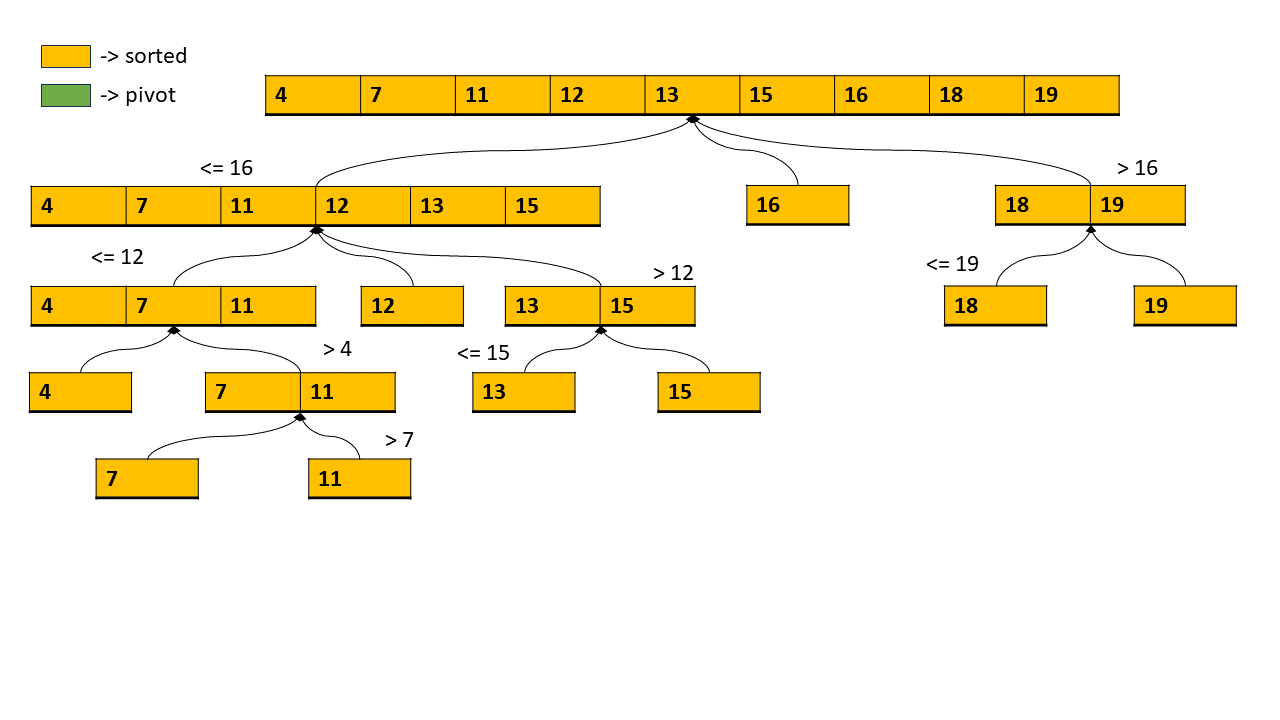
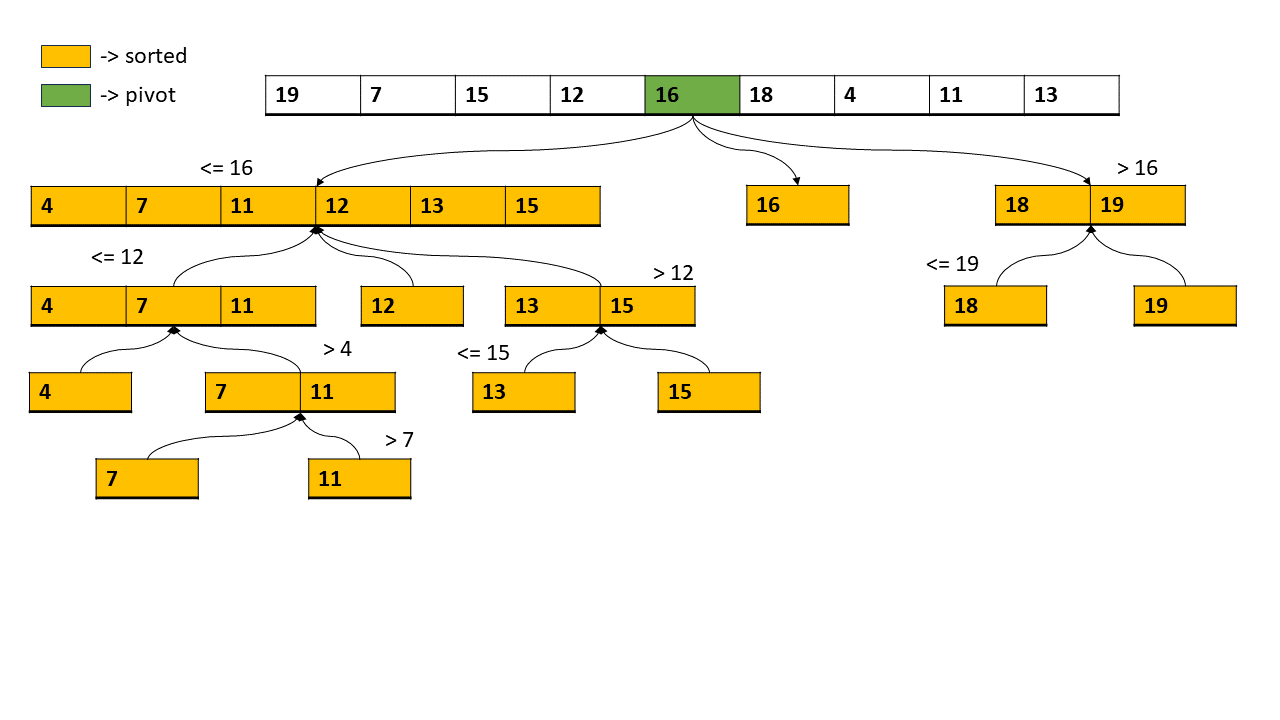
more modifications

Changed region(s): [[0.1875, 0.0917, 0.875, 0.1833]]

diff --git a/sort/middlepivot/script.js b/sort/middlepivot/script.js
@@ -1,22 +1,33 @@
 var pic;
 var picid = 1;
 function press(sw) {
-    if (picid == -1 && sw != 2) {alert("This arrays is already sorted.\nPlease press reset button!");}
-    else{
         if (sw == 0) {
-            picid = (picid == 9) ? 9 : picid +=1; 
-            pic = "pics/".concat(picid.toString(),".png");}
+            myarray = [10,11,13,16,20];
+            if (picid <= 4) {picid += 1;}
+            else if (myarray.includes(picid)) {alert("Problem solved! Try reset or back!")}
+            else if (picid == 5) {alert("Sub-problems small enough to be solved! Use the solve button!")}
+            else {alert("All sub-problems solved, try conquer instead!")}}
          else  if (sw == 1) {
-            picid = (picid == 1) ? 1 : picid -=1; 
-            pic = "pics/".concat(picid.toString(),".png");}
+            if (picid <= 4) {alert("Problem unsolved! Try divide instead!");}
+            else if (picid == 5) {alert("Sub-problem small enough to be solved! Use the solve button before conquer operations!")}
+            else if (myarray.includes(picid)) {alert("Problem solved! Try reset or back!")}
+            else {picid += 1;}}
         else  if (sw == 2) {
-            picid = 1;
-            pic = "pics/".concat(picid.toString(),".png");}
-        else {
-            if (picid > 5) {picid = 5;}
-            pic = "pics/".concat(picid.toString(),"sorted",".png");
-            picid = -1;}}
-  document.getElementById('myImage').src = pic;
+            if (picid <= 2) {picid += 10;}
+            else if (picid == 3) {picid += 11;}
+            else if (picid == 4) {picid += 13;}
+            else if (picid == 5) {picid += 1;}
+            else if (myarray.includes(picid)) {alert("Problem solved! Try reset or back!")}
+            else {alert("All sub-problems solved, try conquer instead!")}}
+        else  if (sw == 3) {
+            if (picid == 12 || picid == 11) {picid -= 10;}
+            else if (picid == 1) {picid = 1;}
+            else if (picid == 14) {picid -= 11;}
+            else if (picid == 17) {picid -=13;}
+            else {picid -= 1;}}
+        else {picid = 1;}
+        pic = "pics/".concat(picid.toString(),".png");
+        document.getElementById('myImage').src = pic;
 };
 
 function quiz() {

diff --git a/bsearch/script.js b/bsearch/script.js
@@ -2,17 +2,16 @@ var pic;
 var picid = 1;
 function press(sw) {
         if (sw == 0) {
-            if (picid <= 3) {picid += 1;}
-            else if (4 <= picid < 6) {alert("Answer is already found! Now return the answer to the original problem(Try conquer instead!)");}
-            else if (picid == 8) {alert("When the answer to the current array is found, try to return it to the original problem using conquer!");}
-            else {
+            if (picid <= 2) {picid += 1;}
+            else if (picid == 3) {alert("Sub-problems small enough to be solved! Use the solve button!")}
+            else if (4 == picid || picid == 5 || picid == 8) {alert("When the answer to the current array is found, try to return it to the original problem using conquer!");}
+            else{
                 alert("Problem solved! Try reset or back instead!");}}
         else  if (sw == 1) {
-            if (picid <= 3) {
-                alert("Problem unsolved! Try divide instead!");}
+            if (picid <= 2) {alert("Problem unsolved! Try divide instead!");}
+            else if (picid == 3) {alert("Sub-problem small enough to be solved! Use the solve button before conquer operations!")}
             else if (4 == picid || picid == 5 || picid == 8) {picid += 1;}
-            else {
-                alert("Problem solved! Try reset or back instead!");}}
+            else {alert("Problem solved! Try reset or back instead!");}}
         else  if (sw == 2) {
             if (picid == 1) {picid == 1;}
             else if (picid == 7 || picid == 8) {picid -= 6;}
@@ -21,7 +20,7 @@ function press(sw) {
         else {
             if (picid < 3) {picid += 6;}
             else if (picid == 3) {picid += 1;}
-            else if (picid == 6 || picid == 7) {alert("Problem solved! Try reset or back instead!");}
+            else if (picid == 6 || picid == 7 || picid == 9) {alert("Problem solved! Try reset or back instead!");}
             else {alert("When the answer to the current array is found, try to return it to the original problem using conquer!");}}
         pic = "pics/".concat(picid.toString(),".png");
         document.getElementById('myImage').src = pic;}

diff --git a/sort/lastpivot/script.js b/sort/lastpivot/script.js
@@ -1,22 +1,31 @@
 var pic;
 var picid = 1;
 function press(sw) {
-    if (picid == -1 && sw != 2) {alert("This arrays is already sorted.\nPlease press reset button!");}
-    else{
         if (sw == 0) {
-            picid = (picid == 7) ? 7 : picid +=1; 
-            pic = "pics/".concat(picid.toString(),".png");}
+            myarray = [8,9,11,14];
+            if (picid <= 3) {picid += 1;}
+            else if (myarray.includes(picid)) {alert("Problem solved! Try reset or back!")}
+            else if (picid == 4) {alert("Sub-problems small enough to be solved! Use the solve button!")}
+            else {alert("All sub-problems solved, try conquer instead!")}}
          else  if (sw == 1) {
-            picid = (picid == 1) ? 1 : picid -=1; 
-            pic = "pics/".concat(picid.toString(),".png");}
+            if (picid <= 3) {alert("Problem unsolved! Try divide instead!");}
+            else if (picid == 4) {alert("Sub-problem small enough to be solved! Use the solve button before conquer operations!")}
+            else if (myarray.includes(picid)) {alert("Problem solved! Try reset or back!")}
+            else {picid += 1;}}
         else  if (sw == 2) {
-            picid = 1;
-            pic = "pics/".concat(picid.toString(),".png");}
-        else {
-            if (picid > 4) {picid = 4;}
-            pic = "pics/".concat(picid.toString(),"sorted",".png");
-            picid = -1;}}
-  document.getElementById('myImage').src = pic;
+            if (picid <= 2) {picid += 8;}
+            else if (picid == 3) {picid += 9;}
+            else if (picid == 4) {picid += 1;}
+            else if (myarray.includes(picid)) {alert("Problem solved! Try reset or back!")}
+            else {alert("All sub-problems solved, try conquer instead!")}}
+        else  if (sw == 3) {
+            if (picid == 9 || picid == 10) {picid -= 8;}
+            else if (picid == 1) {picid = 1;}
+            else if (picid == 12) {picid -= 9;}
+            else {picid -= 1;}}
+        else {picid = 1;}
+        pic = "pics/".concat(picid.toString(),".png");
+        document.getElementById('myImage').src = pic;
 };
 
 function quiz() {

diff --git a/sort/randompivot/script.js b/sort/randompivot/script.js
@@ -1,22 +1,31 @@
 var pic;
 var picid = 1;
 function press(sw) {
-    if (picid == -1 && sw != 2) {alert("This arrays is already sorted.\nPlease press reset button!");}
-    else{
         if (sw == 0) {
-            picid = (picid == 7) ? 7 : picid +=1; 
-            pic = "pics/".concat(picid.toString(),".png");}
+            myarray = [8,9,11,14];
+            if (picid <= 3) {picid += 1;}
+            else if (myarray.includes(picid)) {alert("Problem solved! Try reset or back!")}
+            else if (picid == 4) {alert("Sub-problems small enough to be solved! Use the solve button!")}
+            else {alert("All sub-problems solved, try conquer instead!")}}
          else  if (sw == 1) {
-            picid = (picid == 1) ? 1 : picid -=1; 
-            pic = "pics/".concat(picid.toString(),".png");}
+            if (picid <= 3) {alert("Problem unsolved! Try divide instead!");}
+            else if (picid == 4) {alert("Sub-problem small enough to be solved! Use the solve button before conquer operations!")}
+            else if (myarray.includes(picid)) {alert("Problem solved! Try reset or back!")}
+            else {picid += 1;}}
         else  if (sw == 2) {
-            picid = 1;
-            pic = "pics/".concat(picid.toString(),".png");}
-        else {
-            if (picid > 4) {picid = 4;}
-            pic = "pics/".concat(picid.toString(),"sorted",".png");
-            picid = -1;}}
-  document.getElementById('myImage').src = pic;
+            if (picid <= 2) {picid += 8;}
+            else if (picid == 3) {picid += 9;}
+            else if (picid == 4) {picid += 1;}
+            else if (myarray.includes(picid)) {alert("Problem solved! Try reset or back!")}
+            else {alert("All sub-problems solved, try conquer instead!")}}
+        else  if (sw == 3) {
+            if (picid == 9 || picid == 10) {picid -= 8;}
+            else if (picid == 1) {picid = 1;}
+            else if (picid == 12) {picid -= 9;}
+            else {picid -= 1;}}
+        else {picid = 1;}
+        pic = "pics/".concat(picid.toString(),".png");
+        document.getElementById('myImage').src = pic;
 };
 
 function quiz() {

diff --git a/firstpivot/script.js b/firstpivot/script.js
@@ -5,10 +5,11 @@ function press(sw) {
             myarray = [10,11,13,16,20];
             if (picid <= 4) {picid += 1;}
             else if (myarray.includes(picid)) {alert("Problem solved! Try reset or back!")}
-            else if (picid == 5) {alert("No more division needed, try conquer or solve instead!")}
+            else if (picid == 5) {alert("Sub-problems small enough to be solved! Use the solve button!")}
             else {alert("All sub-problems solved, try conquer instead!")}}
          else  if (sw == 1) {
             if (picid <= 4) {alert("Problem unsolved! Try divide instead!");}
+            else if (picid == 5) {alert("Sub-problem small enough to be solved! Use the solve button before conquer operations!")}
             else if (myarray.includes(picid)) {alert("Problem solved! Try reset or back!")}
             else {picid += 1;}}
         else  if (sw == 2) {

diff --git a/sort/firstpivot/script.js b/sort/firstpivot/script.js
@@ -5,10 +5,11 @@ function press(sw) {
             myarray = [10,11,13,16,20];
             if (picid <= 4) {picid += 1;}
             else if (myarray.includes(picid)) {alert("Problem solved! Try reset or back!")}
-            else if (picid == 5) {alert("No more division needed, try conquer or solve instead!")}
+            else if (picid == 5) {alert("Sub-problems small enough to be solved! Use the solve button!")}
             else {alert("All sub-problems solved, try conquer instead!")}}
          else  if (sw == 1) {
             if (picid <= 4) {alert("Problem unsolved! Try divide instead!");}
+            else if (picid == 5) {alert("Sub-problem small enough to be solved! Use the solve button before conquer operations!")}
             else if (myarray.includes(picid)) {alert("Problem solved! Try reset or back!")}
             else {picid += 1;}}
         else  if (sw == 2) {

diff --git a/sort/lastpivot/main.html b/sort/lastpivot/main.html
@@ -15,10 +15,11 @@
 <img id="myImage" src="pics/1.png">
 
 <p>
-<button class="button button1" onclick="press(0)">Forward</button>
-<button class="button button2" onclick="press(1)">Back</button>
-<button class="button button3" onclick="press(2)">Reset</button>
-<button class="button button4" onclick="press(3)">Sort</button>
+<button class="button button1" onclick="press(0)">Divide</button>
+<button class="button button1" onclick="press(1)">Conquer</button>
+<button class="button button4" onclick="press(2)">Solve</button>
+<button class="button button2" onclick="press(3)">Back</button>
+<button class="button button3" onclick="press(4)">Reset</button>
 <button class="button button5" onclick="quiz()">Quizzes</button>
 <button class="button button6" onclick="back()">Homepage</button>
 </p>

diff --git a/sort/middlepivot/main.html b/sort/middlepivot/main.html
@@ -15,10 +15,11 @@
 <img id="myImage" src="pics/1.png">
 
 <p>
-<button class="button button1" onclick="press(0)">Forward</button>
-<button class="button button2" onclick="press(1)">Back</button>
-<button class="button button3" onclick="press(2)">Reset</button>
-<button class="button button4" onclick="press(3)">Sort</button>
+<button class="button button1" onclick="press(0)">Divide</button>
+<button class="button button1" onclick="press(1)">Conquer</button>
+<button class="button button4" onclick="press(2)">Solve</button>
+<button class="button button2" onclick="press(3)">Back</button>
+<button class="button button3" onclick="press(4)">Reset</button>
 <button class="button button5" onclick="quiz()">Quizzes</button>
 <button class="button button6" onclick="back()">Homepage</button>
 </p>

diff --git a/sort/randompivot/main.html b/sort/randompivot/main.html
@@ -15,10 +15,11 @@
 <img id="myImage" src="pics/1.png">
 
 <p>
-<button class="button button1" onclick="press(0)">Forward</button>
-<button class="button button2" onclick="press(1)">Back</button>
-<button class="button button3" onclick="press(2)">Reset</button>
-<button class="button button4" onclick="press(3)">Sort</button>
+<button class="button button1" onclick="press(0)">Divide</button>
+<button class="button button1" onclick="press(1)">Conquer</button>
+<button class="button button4" onclick="press(2)">Solve</button>
+<button class="button button2" onclick="press(3)">Back</button>
+<button class="button button3" onclick="press(4)">Reset</button>
 <button class="button button5" onclick="quiz()">Quizzes</button>
 <button class="button button6" onclick="back()">Homepage</button>
 </p>
